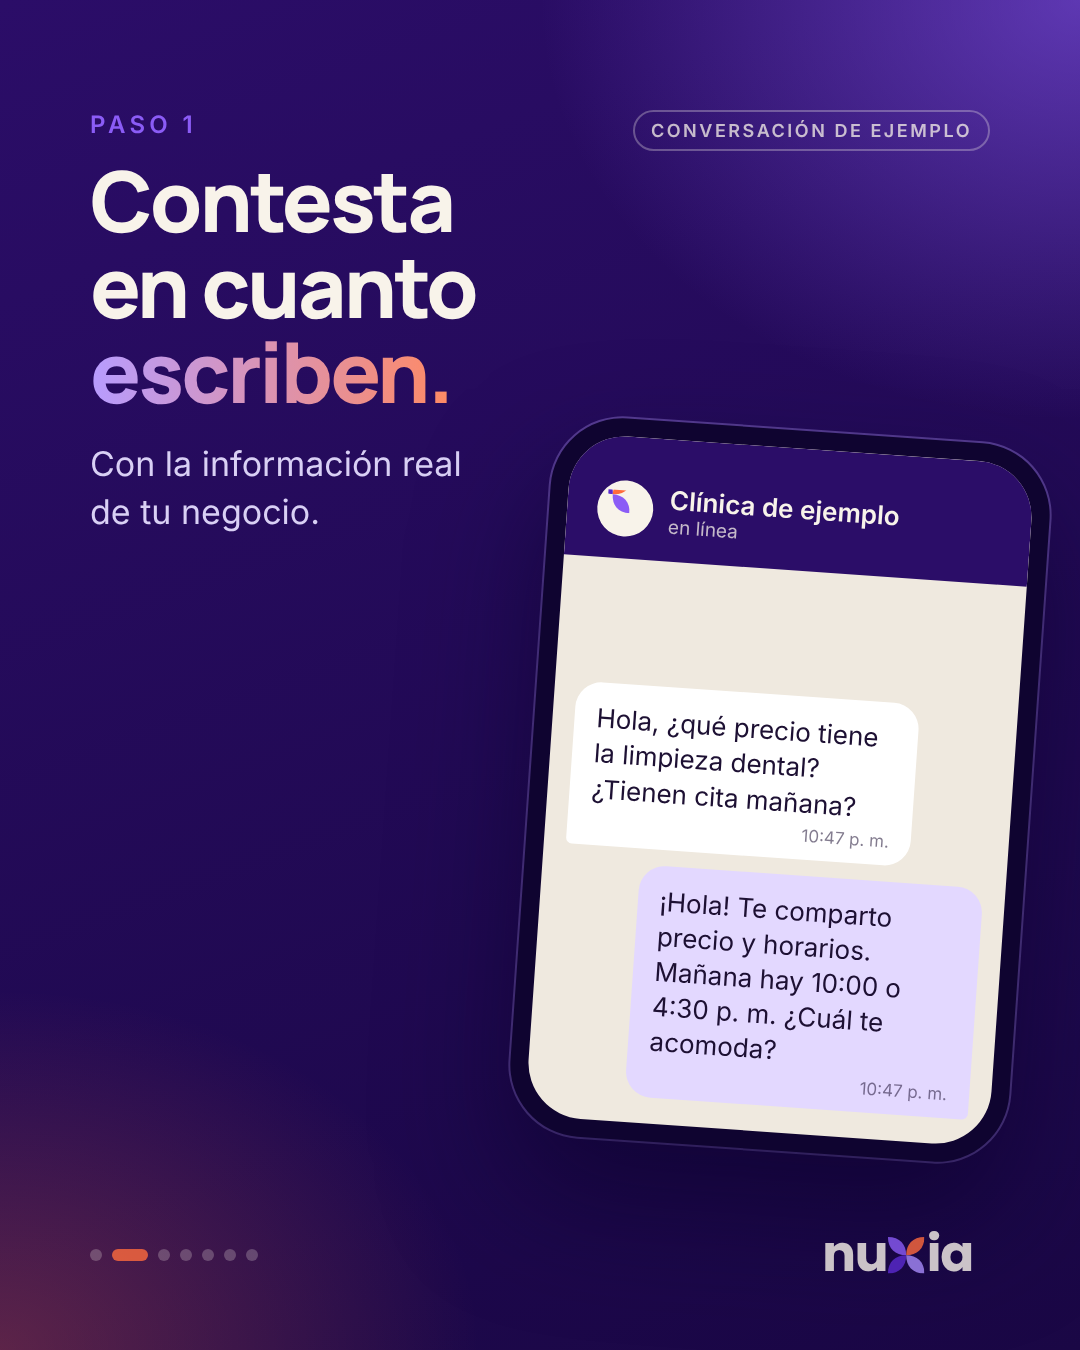
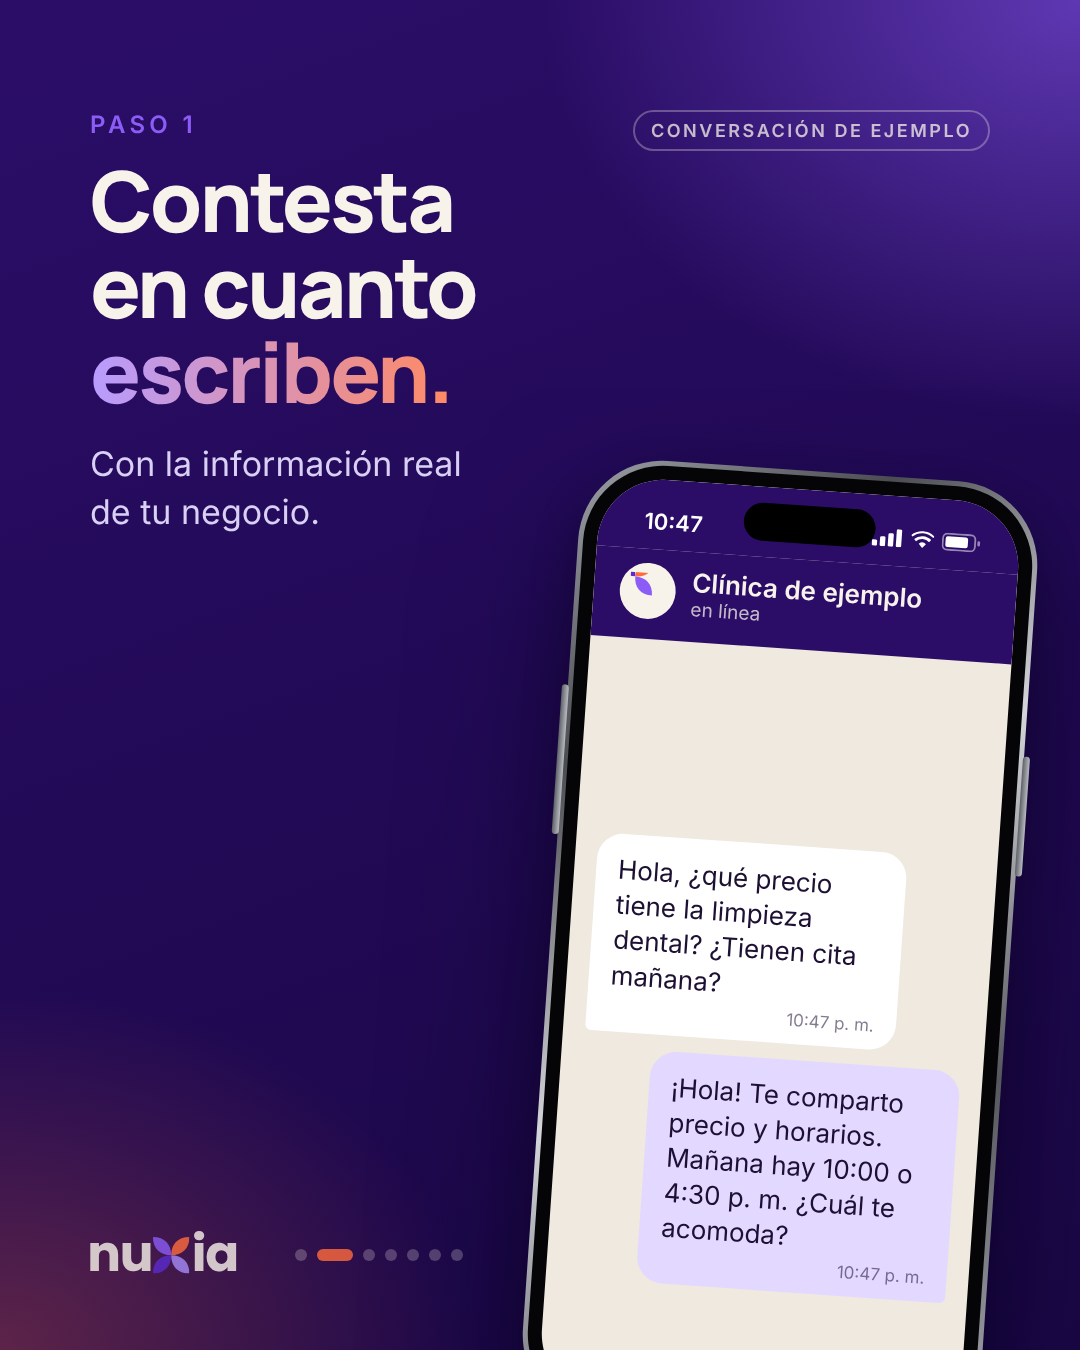
Use iPhone mockup and drop plan names from Fundadores slide
Claude-Session: https://claude.ai/code/session_01RpdhzdgHMRmNgYoTxhaPEJ

diff --git a/assets/banners/nuxia-sales-agent-carrusel/v2/carrusel.html b/assets/banners/nuxia-sales-agent-carrusel/v2/carrusel.html
@@ -121,28 +121,91 @@
       /* phone */
       .phone {
         position: absolute;
-        width: 500px;
-        height: 720px;
-        border-radius: 72px;
-        background: #0f0430;
-        padding: 18px;
+        width: 460px;
+        height: 960px;
+        border-radius: 84px;
+        padding: 5px;
+        background: linear-gradient(
+          135deg,
+          #9da0a6 0%,
+          #4a4c52 22%,
+          #d4d6da 48%,
+          #55575d 74%,
+          #a7aab0 100%
+        );
         box-shadow:
-          0 60px 120px rgba(10, 0, 40, 0.55),
-          0 0 0 2px rgba(183, 156, 255, 0.35);
+          0 70px 140px rgba(8, 0, 32, 0.6),
+          0 20px 40px rgba(8, 0, 32, 0.35);
       }
-      .scr {
+      .phone::before,
+      .phone::after {
+        content: '';
+        position: absolute;
+        width: 7px;
+        border-radius: 4px;
+        background: linear-gradient(90deg, #5d6066, #b9bcc1);
+      }
+      .phone::before {
+        left: -6px;
+        top: 230px;
+        height: 150px;
+        box-shadow: 0 -90px 0 -10px #8d9096;
+      }
+      .phone::after {
+        right: -6px;
+        top: 270px;
+        height: 120px;
+      }
+      .bezel {
         width: 100%;
         height: 100%;
-        border-radius: 56px;
+        border-radius: 80px;
+        background: #050507;
+        padding: 14px;
+      }
+      .scr {
+        position: relative;
+        width: 100%;
+        height: 100%;
+        border-radius: 66px;
         background: #efe9df;
         overflow: hidden;
         display: flex;
         flex-direction: column;
       }
+      .island {
+        position: absolute;
+        top: 16px;
+        left: 50%;
+        transform: translateX(-50%);
+        width: 132px;
+        height: 38px;
+        border-radius: 20px;
+        background: #000;
+        z-index: 3;
+      }
+      .sb {
+        background: var(--m);
+        color: #fff;
+        display: flex;
+        justify-content: space-between;
+        align-items: center;
+        padding: 20px 38px 6px 46px;
+        font: 600 22px Inter;
+        height: 70px;
+      }
+      .sb svg {
+        height: 18px;
+      }
+      .sb .ic {
+        display: flex;
+        gap: 8px;
+        align-items: center;
+      }
       .bar {
         background: var(--m);
         color: var(--c);
-        padding: 44px 30px 22px;
+        padding: 14px 26px 20px;
         display: flex;
         align-items: center;
         gap: 16px;
@@ -163,7 +226,7 @@
       }
       .msgs {
         flex: 1;
-        padding: 26px 22px;
+        padding: 26px 22px 120px;
         display: flex;
         flex-direction: column;
         gap: 16px;
@@ -479,29 +542,74 @@
           Contesta<br />en cuanto<br /><span class="grad">escriben.</span>
         </h2>
         <p class="sub">Con la información real de tu negocio.</p>
-        <div class="phone" style="right: 50px; top: 430px; transform: rotate(4deg)">
-          <div class="scr">
-            <div class="bar">
-              <div class="av">
-                <svg viewBox="214 214 572 572" width="36"><use href="#sym" /></svg>
+        <div class="phone" style="right: 70px; top: 470px; transform: rotate(4deg)">
+          <div class="bezel">
+            <div class="scr">
+              <div class="island"></div>
+              <div class="sb">
+                <span>10:47</span
+                ><span class="ic"
+                  ><svg viewBox="0 0 34 20">
+                    <rect x="0" y="13" width="6" height="7" rx="1.5" fill="#fff" />
+                    <rect x="9" y="9" width="6" height="11" rx="1.5" fill="#fff" />
+                    <rect x="18" y="5" width="6" height="15" rx="1.5" fill="#fff" />
+                    <rect x="27" y="0" width="6" height="20" rx="1.5" fill="#fff" /></svg
+                  ><svg viewBox="0 0 26 20">
+                    <path d="M13 19l4-4.6a6 6 0 0 0-8 0z" fill="#fff" />
+                    <path
+                      d="M13 9a10.5 10.5 0 0 1 7.3 3l2.2-2.5A14 14 0 0 0 3.5 9.5L5.7 12A10.5 10.5 0 0 1 13 9z"
+                      fill="#fff"
+                    />
+                    <path
+                      d="M13 2.5a17 17 0 0 1 11.6 4.6L26 5.4A19.5 19.5 0 0 0 0 5.4l1.4 1.7A17 17 0 0 1 13 2.5z"
+                      fill="#fff"
+                    /></svg
+                  ><svg viewBox="0 0 44 20">
+                    <rect
+                      x="1"
+                      y="1"
+                      width="36"
+                      height="18"
+                      rx="5"
+                      fill="none"
+                      stroke="#fff"
+                      stroke-opacity=".5"
+                      stroke-width="2"
+                    />
+                    <rect x="4" y="4" width="25" height="12" rx="2.5" fill="#fff" />
+                    <rect
+                      x="39.5"
+                      y="7"
+                      width="3"
+                      height="6"
+                      rx="1.5"
+                      fill="#fff"
+                      fill-opacity=".5"
+                    /></svg
+                ></span>
               </div>
-              <div>Clínica de ejemplo<small>en línea</small></div>
-            </div>
-            <div class="msgs">
-              <div class="b u">
-                Hola, ¿qué precio tiene la limpieza dental? ¿Tienen cita mañana?<small
-                  >10:47 p. m.</small
-                >
+              <div class="bar">
+                <div class="av">
+                  <svg viewBox="214 214 572 572" width="36"><use href="#sym" /></svg>
+                </div>
+                <div>Clínica de ejemplo<small>en línea</small></div>
               </div>
-              <div class="b a">
-                ¡Hola! Te comparto precio y horarios. Mañana hay 10:00 o 4:30 p. m. ¿Cuál te
-                acomoda?<small>10:47 p. m.</small>
+              <div class="msgs">
+                <div class="b u">
+                  Hola, ¿qué precio tiene la limpieza dental? ¿Tienen cita mañana?<small
+                    >10:47 p. m.</small
+                  >
+                </div>
+                <div class="b a">
+                  ¡Hola! Te comparto precio y horarios. Mañana hay 10:00 o 4:30 p. m. ¿Cuál te
+                  acomoda?<small>10:47 p. m.</small>
+                </div>
               </div>
             </div>
           </div>
         </div>
       </div>
-      <div class="foot">
+      <div class="foot" style="justify-content: flex-end; gap: 40px; flex-direction: row-reverse">
         <div class="dots"><i></i><i class="on"></i><i></i><i></i><i></i><i></i><i></i></div>
         <svg
           class="logo"
@@ -522,30 +630,75 @@
           Captura<br />sus datos y<br /><span class="grad">agenda.</span>
         </h2>
         <p class="sub">La cita queda en tu calendario, con recordatorio.</p>
-        <div class="phone" style="right: 50px; top: 430px; transform: rotate(-3deg)">
-          <div class="scr">
-            <div class="bar">
-              <div class="av">
-                <svg viewBox="214 214 572 572" width="36"><use href="#sym" /></svg>
+        <div class="phone" style="right: 70px; top: 470px; transform: rotate(-3deg)">
+          <div class="bezel">
+            <div class="scr">
+              <div class="island"></div>
+              <div class="sb">
+                <span>10:48</span
+                ><span class="ic"
+                  ><svg viewBox="0 0 34 20">
+                    <rect x="0" y="13" width="6" height="7" rx="1.5" fill="#fff" />
+                    <rect x="9" y="9" width="6" height="11" rx="1.5" fill="#fff" />
+                    <rect x="18" y="5" width="6" height="15" rx="1.5" fill="#fff" />
+                    <rect x="27" y="0" width="6" height="20" rx="1.5" fill="#fff" /></svg
+                  ><svg viewBox="0 0 26 20">
+                    <path d="M13 19l4-4.6a6 6 0 0 0-8 0z" fill="#fff" />
+                    <path
+                      d="M13 9a10.5 10.5 0 0 1 7.3 3l2.2-2.5A14 14 0 0 0 3.5 9.5L5.7 12A10.5 10.5 0 0 1 13 9z"
+                      fill="#fff"
+                    />
+                    <path
+                      d="M13 2.5a17 17 0 0 1 11.6 4.6L26 5.4A19.5 19.5 0 0 0 0 5.4l1.4 1.7A17 17 0 0 1 13 2.5z"
+                      fill="#fff"
+                    /></svg
+                  ><svg viewBox="0 0 44 20">
+                    <rect
+                      x="1"
+                      y="1"
+                      width="36"
+                      height="18"
+                      rx="5"
+                      fill="none"
+                      stroke="#fff"
+                      stroke-opacity=".5"
+                      stroke-width="2"
+                    />
+                    <rect x="4" y="4" width="25" height="12" rx="2.5" fill="#fff" />
+                    <rect
+                      x="39.5"
+                      y="7"
+                      width="3"
+                      height="6"
+                      rx="1.5"
+                      fill="#fff"
+                      fill-opacity=".5"
+                    /></svg
+                ></span>
               </div>
-              <div>Clínica de ejemplo<small>en línea</small></div>
-            </div>
-            <div class="msgs">
-              <div class="b u">A las 10, porfa. Soy Ana.<small>10:48 p. m.</small></div>
-              <div class="b a">
-                Listo, Ana. Tu cita quedó mañana a las 10:00. Te mando un recordatorio.<small
-                  >10:48 p. m.</small
-                >
+              <div class="bar">
+                <div class="av">
+                  <svg viewBox="214 214 572 572" width="36"><use href="#sym" /></svg>
+                </div>
+                <div>Clínica de ejemplo<small>en línea</small></div>
+              </div>
+              <div class="msgs">
+                <div class="b u">A las 10, porfa. Soy Ana.<small>10:48 p. m.</small></div>
+                <div class="b a">
+                  Listo, Ana. Tu cita quedó mañana a las 10:00. Te mando un recordatorio.<small
+                    >10:48 p. m.</small
+                  >
+                </div>
               </div>
             </div>
           </div>
         </div>
-        <div class="chip" style="left: 70px; top: 1010px">
+        <div class="chip" style="left: 70px; top: 880px">
           <div class="t">En tu calendario</div>
           <b>Ana · Limpieza dental</b>Mañana, 10:00
         </div>
       </div>
-      <div class="foot">
+      <div class="foot" style="justify-content: flex-end; gap: 40px; flex-direction: row-reverse">
         <div class="dots"><i></i><i></i><i class="on"></i><i></i><i></i><i></i><i></i></div>
         <svg
           class="logo"
@@ -648,11 +801,14 @@
     >
       <div class="in">
         <div class="k" style="color: #ffb59c">Programa Clientes Fundadores</div>
-        <div class="mega" style="margin-top: 40px">$3,990<small>/mes</small></div>
-        <h2 style="font-size: 58px; margin-top: 22px">Plan Growth durante 12 meses.</h2>
+        <div class="mega" style="margin-top: 40px">−50 %</div>
+        <h2 style="font-size: 64px; margin-top: 22px">en tu implementación.</h2>
         <div style="margin-top: 44px">
           <div class="li">
             <i>✓</i><span><b>Implementación de $4,900</b> en lugar de $9,900.</span>
+          </div>
+          <div class="li">
+            <i>✓</i><span><b>Precio especial</b> en tu mensualidad durante 12 meses.</span>
           </div>
           <div class="li">
             <i>✓</i><span><b>Acompañamiento</b> en el arranque.</span>
@@ -660,9 +816,11 @@
           <div class="li">
             <i>✓</i><span><b>Voz</b> en cómo evoluciona el producto.</span>
           </div>
-          <div class="li"><i>✓</i><span>Después, el precio de lista vigente.</span></div>
         </div>
         <div class="date">Hasta el 31/03/2027</div>
+        <p style="font-size: 26px; color: var(--l); margin-top: 26px">
+          Aplica según el plan. Te lo explicamos en el diagnóstico.
+        </p>
       </div>
       <div class="foot">
         <div class="dots"><i></i><i></i><i></i><i></i><i></i><i class="on"></i><i></i></div>

diff --git a/assets/banners/nuxia-sales-agent-carrusel/texto-publicacion.md b/assets/banners/nuxia-sales-agent-carrusel/texto-publicacion.md
@@ -27,7 +27,7 @@ Desde $1,990 al mes, en pesos mexicanos e IVA incluido. El plan lo elegimos junt
 3. El prospecto elige las 10:00; el agente confirma la cita y aparece registrada en el calendario.
 4. Aviso para el asesor: el prospecto quiere saber de ortodoncia y la conversación está lista para seguirla.
 5. Desde $1,990 al mes. El plan lo elegimos juntos en el diagnóstico gratuito. Precios en pesos mexicanos con IVA incluido.
-6. Programa Clientes Fundadores: Growth a $3,990 al mes por 12 meses e implementación de $4,900.
+6. Programa Clientes Fundadores: 50 % menos en la implementación ($4,900 en lugar de $9,900), precio especial 12 meses, hasta el 31/03/2027. Aplica según el plan.
 7. Diagnóstico gratuito de 30 minutos por Google Meet. Escríbenos «DIAGNÓSTICO» por WhatsApp.
 
 ## Antes de publicar
